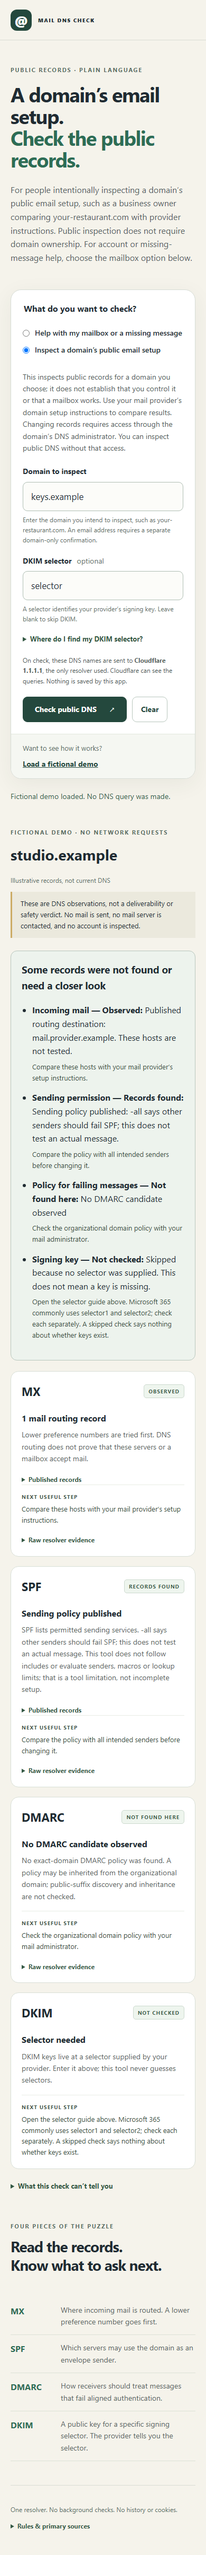
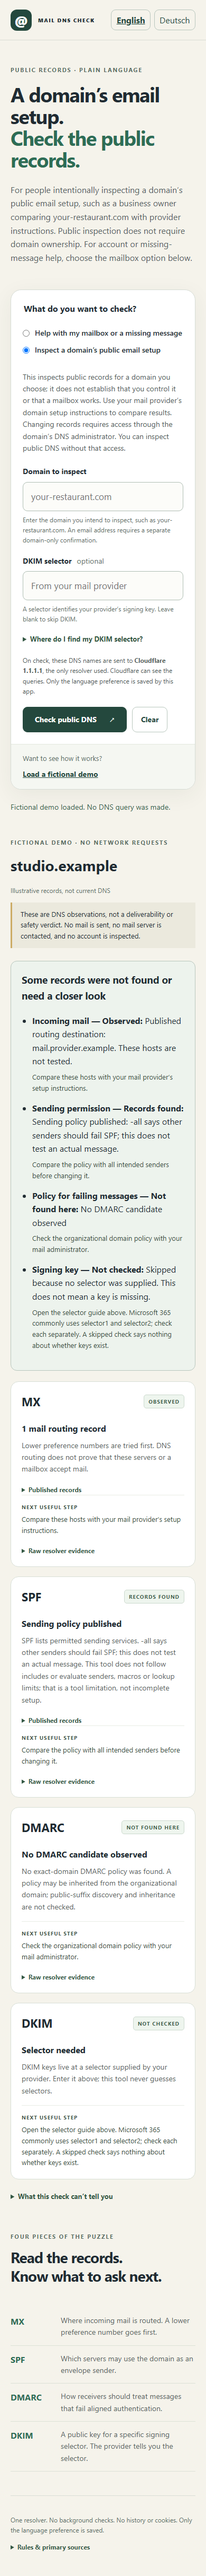
docs: improve public product documentation

Changed region(s): [[0.0615, 0.0, 0.9231, 0.9961], [0.1538, 0.9649, 0.2154, 0.9961]]

diff --git a/README.md b/README.md
@@ -1,79 +1,73 @@
 # Mail DNS Check
 
-Choose mailbox help or intentional public-domain DNS inspection before entering anything. Mailbox help offers account and message-support next steps without collecting an address or querying DNS, for every provider. Public inspection (for example your-restaurant.com) does not require ownership; changing records requires the DNS administrator. Use this browser tool to compare public DNS records with your provider’s instructions. It cannot diagnose a mailbox or individual message. After choosing public inspection, enter a domain and explicitly
-query Cloudflare 1.1.1.1, and read MX/SPF/DMARC plus an optional known DKIM selector.
-The built-in example uses fictional records and is labeled separately from live results. No mail, SMTP probes,
-account access, scans, guessed selectors or automatic background requests. Only
-the interface language preference is saved in browser storage; domains, selectors
-and DNS results are not.
+Understand a domain's public email configuration and compare it with your provider's setup instructions. Mail DNS Check shows MX, SPF and DMARC records, plus DKIM records when you supply a selector.
 
-`npm test` runs the dependency-free Node core tests. `npm run preview` binds only
-127.0.0.1:43220 for at most 20 minutes; stop with Ctrl+C. Static output is `dist/`; hosting is configured separately.
+**[Open Mail DNS Check](https://tools.arcdrake.com/mail-dns/)** · [Download source](https://github.com/ArcdrakeStudios/mail-dns-check/archive/refs/heads/main.zip) · [Arcdrake Tools](https://tools.arcdrake.com/) · [Report an issue](https://github.com/ArcdrakeStudios/mail-dns-check/issues)
 
-The sole network destination is https://cloudflare-dns.com/dns-query, with
-credentials omitted, redirects rejected and no referrer. Explicit checks issue
-three queries (MX, domain TXT, exact-domain DMARC TXT), or four with a supplied
-DKIM selector. Concurrent requests share a 12-second cancellation deadline;
-each streamed response is capped at 64 KiB and 100 answers. A new check, demo,
-clear, cancel or page exit invalidates prior responses. Input is bounded, IDNs
-are normalized to ASCII; URL/IP/local names are rejected. All domains require explicit public-DNS intent. Every email address requires domain-only confirmation; its local part is never sent to the resolver. Known provider names add context only: the finite provider list never establishes visitor intent or domain control. The resolver
-sees the requested names; this app retains no history. CSP allows connections
-only to that resolver. Public source links navigate only on an explicit click.
+## How to use it
 
-Interpretations are bounded record summaries, never authentication or
-deliverability verdicts. Null MX can intentionally reject incoming mail; absent
-MX can use A/AAAA fallback (not queried). SPF dependencies/macros/address matching
-and lookup budgets are not evaluated. DMARC organizational-domain discovery and
-inheritance are not evaluated. DKIM public keys/signatures are not validated.
-CNAMEs remain visible in raw evidence without additional target queries. TXT
-chunks are concatenated as one record; unrelated TXT records remain visible.
-Unavailable/truncated/error responses are distinct from absent records. TTL is
-resolver cache evidence, not a promise of global freshness.
+- **Need help with your mailbox or a missing message?** Choose mailbox help. It explains where to seek account or message support without collecting your address or querying DNS. Checking `gmail.com` or another provider's domain cannot diagnose your individual mailbox.
+- **Checking a domain's email setup?** Choose public DNS inspection, enter the domain and select **Check public DNS**. You can inspect public records without owning the domain; changing them requires its DNS administrator.
+- **Just exploring?** Choose public DNS inspection, then load the fictional demo to see a report without making any DNS requests.
 
-Primary rules: [Cloudflare DoH JSON API](https://developers.cloudflare.com/1.1.1.1/encryption/dns-over-https/make-api-requests/dns-json/),
-[SMTP RFC 5321 §5](https://www.rfc-editor.org/rfc/rfc5321.html#section-5),
-[null MX RFC 7505](https://www.rfc-editor.org/rfc/rfc7505.html),
-[SPF RFC 7208](https://www.rfc-editor.org/rfc/rfc7208.html),
-[DMARC RFC 7489](https://www.rfc-editor.org/rfc/rfc7489.html),
-[DKIM RFC 6376](https://www.rfc-editor.org/rfc/rfc6376.html).
+An email address requires a separate confirmation to check only its domain. The part before `@` is never sent to the DNS resolver. If your provider gives you a DKIM selector, enter it; leaving it empty skips that lookup.
 
-## Source and verification
+<details>
+<summary>View desktop screenshot</summary>
 
-![Synthetic desktop example](docs/screenshot-desktop.png)
+![Mail DNS Check with fictional example data](docs/screenshot-desktop.png)
 
-MIT licensed; see [LICENSE](LICENSE) and [third-party inventory](THIRD_PARTY_NOTICES.md).
-Built by [Arcdrake](https://arcdrake.com/). The source is available in this repository; production hosting is not yet live.
-See [verification](docs/VERIFICATION.md) and [deployment](docs/DEPLOYMENT.md).
+</details>
 
-Requires Node.js 24 or newer for the local preview and core tests. No package installation is needed for those commands.
-`npm test` runs deterministic core tests. `npm run package` requires Python 3.11+
-and creates a checked static ZIP plus SHA-256 manifest in `artifacts/release/`.
-There is no frontend compilation step; `dist/` is the application source.
+[Mobile screenshot](docs/screenshot-mobile.png). Screenshots show the standalone application with fictional data.
 
-For browser regression checks, follow the locked development setup below and run `npm run test:ci`. The script starts/stops its own preview and headless browser. Screenshots go to ignored `artifacts/readiness/`; only `UPDATE_SCREENSHOTS=1` replaces release images in `docs/`. Do not run it while
-another process owns the app's preview port. No package/browser installation is
-required for normal use. Chromium desktop and 390px emulation are recorded;
-physical devices, screen readers and other engines have not been tested.
+## Privacy and limitations
 
-For contributions, supply a reproducible issue with synthetic inputs only; never
-attach real credentials or private URLs/domains. Run the relevant core/browser
-checks with a proposed fix. [Report an issue](https://github.com/ArcdrakeStudios/mail-dns-check/issues).
+Live checks send the requested DNS names to Cloudflare's DNS-over-HTTPS resolver at `https://cloudflare-dns.com/dns-query`. These direct browser requests expose your public IP address and the requested DNS names to Cloudflare. The application does not send mail, contact mail servers, access accounts, guess DKIM selectors or run background checks.
 
-## Source, support and development
+English and German are available. Only the language preference is stored locally; domains, selectors and results are not saved by the application. The fictional demo and mailbox-help path make no DNS queries.
 
-[Source](https://github.com/ArcdrakeStudios/mail-dns-check) · [Issues](https://github.com/ArcdrakeStudios/mail-dns-check/issues) · [Contributing](CONTRIBUTING.md) · [Security](SECURITY.md)
+Results are observations of public DNS, not a mailbox diagnosis, authentication test, deliverability score or safety verdict. SPF dependencies and sender matching are not evaluated. DMARC checks the exact domain; organizational-domain policy discovery and inheritance are not evaluated. DKIM keys and message signatures are not validated. See [DNS interpretation and test coverage](docs/VERIFICATION.md) for the remaining boundaries.
 
-Part of Arcdrake's tools collection. The planned shared home is `tools.arcdrake.com`;
-production hosting is not live as part of this source release. Local use is available
-above. Development checks use Node.js 24, Python 3.11+ and locked Playwright tooling:
+The hosted site receives ordinary page and asset requests. See its [privacy information](https://tools.arcdrake.com/privacy/) for hosting details.
+
+## Run locally
+
+Download and extract the source ZIP, or clone this repository. Open a terminal
+in the resulting folder.
+
+Install Node.js 24 or newer, then run from this repository:
+
+```sh
+npm run preview
+```
+
+Open http://127.0.0.1:43220/. Stop the preview with Ctrl+C. The preview also stops automatically after 20 minutes. No package installation is needed to run the application. Serve it over HTTP(S), rather than opening `index.html` directly. The files in `dist/` are the application source; there is no compilation step.
+
+## Development
+
+Packaging additionally requires Python 3.11 or newer available as `python`, because the npm script calls that command. Check `python --version`; if your system only provides `python3`, configure your Python installation or PATH so `python` selects Python 3.11 or newer. Install the locked development tools and run the checks:
 
 ```sh
 npm ci
 npx playwright install chromium
 npm test
 npm run test:ci
+npm run test:localization
 npm run package:release
 ```
 
-The CI wrapper starts and stops its own preview server. Runtime operation needs no
-package installation. [Release procedure](docs/RELEASING.md).
+Browser checks manage their own local servers. Leave the preview port free before running them. The package command writes static files and a SHA-256 manifest to `artifacts/release/`; it does not publish or deploy.
+
+Automated browser coverage uses Chromium, including narrow layouts. Safari, Firefox, physical devices and screen readers have not been verified for this app. Report compatibility problems with your browser version and a fictional example.
+
+See [contributing](CONTRIBUTING.md), [language support](docs/LOCALIZATION.md) and [packaging and hosting](docs/RELEASING.md).
+
+## License and support
+
+An [Arcdrake](https://arcdrake.com/) product. Free to use, modify and redistribute under the [MIT license](LICENSE). See [third-party notices](THIRD_PARTY_NOTICES.md) for attribution.
+
+Use the [issue tracker](https://github.com/ArcdrakeStudios/mail-dns-check/issues) for bugs and suggestions. Do not include private account details or credentials. Report security vulnerabilities through the [private reporting channel](SECURITY.md).
+
+Feature requests are welcome in the issue tracker. To contribute an improvement,
+see [the contribution guide](CONTRIBUTING.md).

diff --git a/docs/VERIFICATION.md b/docs/VERIFICATION.md
@@ -1,16 +1,45 @@
-# Verification
+# DNS interpretation and test coverage
 
-Latest local pass: 15 October 2026. 16 deterministic core tests passed under Node.js 24.14.0; 23 Chromium 151.0.7922.34 browser fixture checks passed. Mailbox-help journeys for Gmail, Yahoo, Outlook and unknown providers make no DNS queries. Every domain requires public-DNS intent; every email requires explicit domain-only confirmation, and no local part is sent. Switching to mailbox help cancels pending DNS results. Provider detection never establishes ownership or intent. The overview renders ~all, p=none, supplied/omitted DKIM selectors, a CNAME-only answer, permissive SPF, tool parse limitations, missing records and partial unavailability, NXDOMAIN and unavailable results. Cancel, Clear and demo replacement discard late responses. A versionless signing key remains a candidate, not a validated key. Updated synthetic desktop and 390px screenshots were visually inspected; no horizontal overflow was measured. Physical devices, screen readers, non-Chromium browsers and the production origin have not been tested.
+## What the records can tell you
 
-Run `npm test`. For browser checks follow the [README](../README.md): install the locked
-Playwright dependency and Chromium using the documented commands. The browser script
-starts its own loopback server and closes it and its isolated browser afterward.
-Screenshots default to ignored artifacts; UPDATE_SCREENSHOTS=1 is a deliberate
-release-image refresh. The application needs no package installation.
+Mail DNS Check summarizes records returned by one resolver. It does not test an individual message or prove that a mailbox accepts mail.
 
-The static package builder rejects unexpected files/subdirectories, uses stored
-ZIP entries with fixed metadata, checks each archive member against source and
-writes archive/per-file SHA-256 hashes. It is not a publishing command.
+- **MX:** A null MX may intentionally reject incoming mail. If MX is absent, SMTP may fall back to A/AAAA records; this app does not query that fallback.
+- **SPF:** The published policy is shown, but includes, redirects, macros, sender-address matching and DNS lookup budgets are not evaluated.
+- **DMARC:** The app queries the exact domain's `_dmarc` record. It does not discover organizational domains or evaluate inherited policy.
+- **DKIM:** A lookup requires a supplied selector. Public keys and message signatures are not validated; no selector is guessed.
 
-Production-origin DNS-over-HTTPS behavior requires a separate check after deployment,
-including response status, JSON content type, CORS and rendering of live results.
+CNAMEs remain visible in raw evidence without additional target queries. TXT chunks are concatenated into a record; unrelated TXT records remain available in raw evidence. Error, truncated and unavailable responses are distinct from missing records. TTL values describe resolver-cache evidence rather than global freshness.
+
+## Request boundaries
+
+An explicit check issues three queries: MX, domain TXT and exact-domain DMARC TXT. A supplied DKIM selector adds a fourth. Requests share a 12-second cancellation deadline; responses are capped at 64 KiB and 100 answers. Credentials are omitted, redirects rejected and no referrer is sent.
+
+A new check, demo, Clear, Cancel or leaving the page invalidates prior responses. Internationalized domain names are normalized to ASCII. URLs, IP addresses and local names are rejected. Public inspection requires an explicit choice; an email address additionally requires confirmation to inspect only its domain. Provider-name hints do not establish ownership or intent.
+
+## Running the checks
+
+Install the development tools in the [README](../README.md), then run:
+
+```sh
+npm test
+npm run test:ci
+npm run test:localization
+```
+
+Core tests cover parsing and bounded record summaries. Chromium browser checks use controlled DNS fixtures to cover mailbox-help and public-inspection paths, domain-only confirmation, canceled requests, demo results, errors and narrow layouts. Localization checks cover English/German selection and preservation of DNS data.
+
+Fixture tests do not verify a live resolver or CORS on a deployed origin. Check those separately when hosting a copy. Automated checks use Chromium; Safari, Firefox, physical devices and screen readers have not been verified.
+
+Browser checks create their own loopback server and close it afterward. Screenshots default to ignored `artifacts/readiness/`. Setting `UPDATE_SCREENSHOTS=1` updates the documented screenshots in `docs/`; inspect those images before committing them.
+
+The static package builder checks its file inventory and archive contents, then writes archive and per-file SHA-256 hashes. It does not publish.
+
+## References
+
+- [Cloudflare DNS-over-HTTPS JSON API](https://developers.cloudflare.com/1.1.1.1/encryption/dns-over-https/make-api-requests/dns-json/)
+- [SMTP routing, RFC 5321 section 5](https://www.rfc-editor.org/rfc/rfc5321.html#section-5)
+- [Null MX, RFC 7505](https://www.rfc-editor.org/rfc/rfc7505.html)
+- [SPF, RFC 7208](https://www.rfc-editor.org/rfc/rfc7208.html)
+- [DMARC, RFC 7489](https://www.rfc-editor.org/rfc/rfc7489.html)
+- [DKIM, RFC 6376](https://www.rfc-editor.org/rfc/rfc6376.html)

diff --git a/docs/DEPLOYMENT.md b/docs/DEPLOYMENT.md
@@ -1,30 +1,23 @@
-# Static deployment
+# Static hosting
 
-For local package inspection, run `npm test`, the browser checks described in [README](../README.md),
-then `python tools/package-release.py` (Python 3.11+). The resulting
-`artifacts/release/static-release.zip` contains exactly four application files,
-LICENSE and THIRD_PARTY_NOTICES.md; manifest.json records archive/per-file hashes.
-Packaging needs no dependency installation. Browser checks require the locked
-Playwright dependency and browser installation documented in README. Runtime use
-requires no backend, database or account.
+The hosted application is available at [tools.arcdrake.com/mail-dns/](https://tools.arcdrake.com/mail-dns/). To host your own copy, build a package using [these instructions](RELEASING.md).
 
-For production, use only the retained **Prepare release artifact** workflow output
-for the approved main commit, following [RELEASING.md](RELEASING.md). Local packages
-are for inspection, not production deployment. Serve the unpacked approved static
-package over HTTPS from its own root or directory.
-A directory mount must serve its trailing-slash index and adjacent relative assets.
-Do not serve the repository root, tests, internal tooling or artifacts directory.
-Confirm unknown-path 404 behavior and preserve other routes on an existing host.
+## Files and paths
 
-Set X-Content-Type-Options: nosniff and Referrer-Policy: no-referrer. Keep the
-application's current CSP, restrict framing through host headers, and use
-revalidated HTML/consistent asset caching. No service worker is installed.
-Mail DNS Check requires connect-src https://cloudflare-dns.com. Cloudflare sees explicitly requested DNS names; verify CORS from the actual production origin. No mail is sent.
+Extract `artifacts/release/static-release.zip`. It contains five application files: `index.html`, `style.css`, `app.js`, `core.js` and `language.js`, plus `LICENSE` and `THIRD_PARTY_NOTICES.md`. A separate `manifest.json` records archive and per-file SHA-256 hashes.
 
-After deployment compare per-file hashes with the manifest, inspect security
-headers and desktop/mobile behavior, and verify the actual origin-specific flow.
-Hosting receives page/asset requests and may keep access logs; describe the chosen
-host's processing and operator/contact information accurately. Retain the previous
-static package for rollback. The app has no stored user data to migrate.
+Serve the extracted static files over HTTPS from a root or directory, preserving relative asset paths. A directory mount must serve its trailing-slash index. Do not serve the repository root, tests or development tools. No application backend, database or account system is required.
 
-The planned shared home is tools.arcdrake.com. Source publication and production hosting are separate; see [RELEASING.md](RELEASING.md).
+## Host configuration
+
+Keep the application's Content Security Policy. Set `X-Content-Type-Options: nosniff` and `Referrer-Policy: no-referrer`, and configure framing restrictions appropriate to your host. Revalidate HTML and avoid serving stale assets from another version.
+
+The app needs `connect-src https://cloudflare-dns.com` for explicit DNS lookups. Check DNS-over-HTTPS responses and CORS from your chosen origin. These direct browser requests expose the visitor's public IP address and requested DNS names to Cloudflare; no mail is sent.
+
+No service worker is installed. Language preference storage belongs to the current origin.
+
+## Check your deployment
+
+Verify file hashes against the manifest, unknown-path 404 responses, asset loading, security headers, narrow layouts and English/German controls. Also check the demo, mailbox-help path and an explicit live DNS lookup.
+
+Hosting receives ordinary page and asset requests and may keep access logs. Describe the host's processing and operator/contact information accurately. Keep the previous package and manifest if you need to restore an earlier version.

diff --git a/docs/LOCALIZATION.md b/docs/LOCALIZATION.md
@@ -1,11 +1,19 @@
 # English and German interface
 
-The bundled `dist/language.js` contains local translations for static text, dynamic findings, help, errors and accessibility labels. It makes no network requests and adds no runtime dependencies. Rehearsal also localizes exported HTML run sheets. Raw URLs, DNS evidence, protocol values and user-authored event content remain data, protected by explicit raw display boundaries.
+The bundled `dist/language.js` supplies translations for interface text, help, errors and accessibility labels without network requests or runtime dependencies. DNS names, record values and raw resolver evidence remain data and are not translated.
 
-Language priority is valid `?lang=de|en`, then valid `arcdrake-tools-language` preference, then German browser language, otherwise English. Unavailable browser storage does not prevent an explicit URL choice. Only the preference is persisted by the language module.
+Language selection follows this order:
 
-The visible English/Deutsch buttons update the URL with `history.replaceState` without reloading. Each app dispatches and listens for `arcdrake-language-change` on `window`, with `detail.language` equal to `en` or `de`. This lets the collection shell change language while preserving entered values, selections, simulations and existing results.
+1. A valid `?lang=de` or `?lang=en` URL parameter.
+2. The saved `arcdrake-tools-language` preference.
+3. German when the browser's language is German; English otherwise.
 
-The translator retains English source text per node and translates exact strings or bounded message templates. It never replaces arbitrary words inside user text. When adding UI copy, add both its English source and German translation, keep inserted user values in raw boundaries, and extend the localization journey as needed.
+An explicit URL choice still works when browser storage is unavailable. Only the language preference is persisted by this module.
 
-Run `npm test`, `npm run test:ci`, and `npm run test:localization`. Localization browser tests cover dynamic German results/errors, EN/DE state retention, raw-data retention, explicit URL and stored preference priority, browser-language fallback, denied storage and narrow screens. Every owned test browser is closed in `finally`.
+English/Deutsch controls change the language without reloading or clearing entered data. The app dispatches and listens for `arcdrake-language-change` on `window`, with `detail.language` set to `en` or `de`. A script running in the same page, such as site navigation, can use this event to coordinate language changes. The event does not cross iframe boundaries.
+
+## Adding translations
+
+The translator retains English source text per node and translates exact strings or bounded message templates. It does not replace arbitrary words inside user text. Add both the English source and German translation for new interface copy, keep user-supplied values outside translated text, and extend the localization tests.
+
+Run `npm run test:localization` after installing the development tools described in the [README](../README.md). The checks cover language selection, translated results and errors, preservation of entered data, unavailable storage and narrow layouts.

diff --git a/CONTRIBUTING.md b/CONTRIBUTING.md
@@ -1,35 +1,33 @@
 # Contributing
 
-Please open an issue before a substantial change. Small, focused fixes are welcome.
-Fork the repository, create a branch and submit a pull request against `main`.
-Use synthetic inputs in reports, screenshots and tests; do not post private data.
+Small, focused fixes are welcome. Open an issue before a substantial change so we can discuss the intended behavior. Fork the repository, create a branch and submit a pull request against `main`.
 
-Use Node.js 24 and Python 3.11 or newer. Install development tools with `npm ci`, then run:
+## Development checks
+
+Follow the prerequisites in the [README](README.md), then run:
 
 ```sh
+npm ci
 npx playwright install chromium
 npm test
 npm run test:ci
+npm run test:localization
 npm run package:release
 ```
 
-On Linux, `npx playwright install --with-deps chromium` installs required browser
-libraries. CI uses disposable GitHub-hosted runners. Maintainer approval is needed
-before an outside contributor's workflow runs; approval is not a code review.
+On Linux, `npx playwright install --with-deps chromium` also installs required browser libraries. Browser tests start and stop their own preview servers; leave the app's preview port free.
 
-Keep the app dependency-light and preserve its documented privacy and scope.
-Include a regression check for behavioral fixes and explain verification limits.
-Review must cover code, public copy, dependency rights and screenshots. Contributions
-are provided under the repository's MIT license. Be respectful and constructive.
+## Preparing a pull request
 
-## Maintainer workflow
+Explain the user-visible problem, the change and how you checked it. Add a regression test for behavioral fixes when practical, and keep documentation and both interface languages consistent with the application.
 
-Main requires a pull request, passing `verify` CI, resolved conversations and linear
-history. Squash merge approved changes. Force pushes and branch deletion are blocked.
-CODEOWNERS assigns review to @SirDragonheart. A separate review rule requires one
-approval, with a PR-only exception for the owner account: founder-authored PRs must
-record independent Claude review and resolved findings before that exception is used.
-The exception does not bypass CI or permit direct pushes. GitHub enforces the checks;
-the independent-review evidence requirement is a maintainer procedure.
+Preserve the documented privacy boundaries and keep runtime dependencies minimal. Use fictional inputs in issues, tests and screenshots. Never post private data or credentials.
 
-See [release procedure](docs/RELEASING.md) and [security reporting](SECURITY.md).
+Pull requests must pass the required CI check before merging. Contributor pull requests are reviewed by a maintainer. A maintainer may need to approve a contributor's workflow run before checks begin.
+
+Contributions are provided under the repository's MIT license. Be respectful and constructive.
+
+See [packaging and hosting](docs/RELEASING.md), [language support](docs/LOCALIZATION.md) and [security reporting](SECURITY.md).
+
+Accepted changes can be included in future updates to the hosted app. Deployment
+is managed separately from pull request merging.

diff --git a/docs/RELEASING.md b/docs/RELEASING.md
@@ -1,22 +1,23 @@
-# Release procedure
+# Packaging and hosting
 
-The canonical source is https://github.com/ArcdrakeStudios/mail-dns-check.
-The planned shared product home is `tools.arcdrake.com`; its production launch is
-separate from source publication. This repository does not automatically deploy.
+[Mail DNS Check](https://tools.arcdrake.com/mail-dns/) is part of [Arcdrake Tools](https://tools.arcdrake.com/). This repository contains its standalone source. Its workflows check changes and prepare downloadable artifacts; they do not deploy the hosted service.
 
-1. Merge through the protected pull-request workflow with `verify` passing and
-   review findings resolved. Record independent review for an owner-authored PR.
-2. Dispatch **Prepare release artifact** on `main`. The `release` environment
-   requires owner approval and restricts runs to main. It repeats tests and packages
-   the checked-out SHA. The artifact is named with that SHA and retained for 30 days.
-3. Inspect the package manifest/hashes. Download and retain the artifact and manifest
-   in the deployment release archive before GitHub retention expires.
-4. Website deployment belongs to the separate infrastructure workflow. Pin this
-   public commit and artifact hash there; verify routing, security headers and user
-   journeys on the production origin. No credentials or deployment hooks live here.
-5. Keep the previous verified artifact and manifest. Roll back through the same
-   infrastructure workflow to those exact bytes, then check the live product.
+## Build a static package
 
-Do not deploy from a contributor branch, arbitrary tag or local working directory.
-Static host logs and origin-dependent browser behavior require separate deployment
-verification. The initial source publication is not evidence of a live public site.
+Follow the development checks in the [README](../README.md), then run:
+
+```sh
+npm run package:release
+```
+
+Python 3.11 or newer must be available as `python`, the command used by the npm script. Check `python --version`; if only `python3` is available, configure your Python installation or PATH before using the npm command. The command creates `artifacts/release/static-release.zip` and a separate `manifest.json` with archive and per-file SHA-256 hashes.
+
+The application files are `index.html`, `style.css`, `app.js`, `core.js` and `language.js`. The package also includes `LICENSE` and `THIRD_PARTY_NOTICES.md`; retain these when redistributing it. Packaging does not download dependencies, upload files or configure hosting.
+
+The **Prepare release artifact** GitHub Actions workflow runs on `main` when dispatched by a maintainer. It repeats the checks and uploads an artifact named with the source commit. GitHub keeps these workflow artifacts for 30 days; they are not permanent release downloads.
+
+## Host your own copy
+
+See [static hosting](DEPLOYMENT.md) for package layout, headers and browser requirements.
+
+Retain the previous package and manifest if you need to restore an earlier version. Verify the files against the manifest before serving them.

diff --git a/.github/pull_request_template.md b/.github/pull_request_template.md
@@ -1,11 +1,14 @@
 ## Problem and change
 
+Describe the user problem and how this change addresses it.
+
 ## Verification
 
-## Privacy, security and dependency impact
+Describe the checks you ran and any remaining limitations.
 
-- [ ] Tests pass and limitations are stated.
+## Checklist
+
+- [ ] Relevant checks pass.
 - [ ] Examples and screenshots contain no private information.
 - [ ] Documentation matches the behavior.
-
-## Independent review evidence (required for owner review exception)
+- [ ] Any privacy, security or dependency changes are explained.

diff --git a/.github/ISSUE_TEMPLATE/bug_report.md b/.github/ISSUE_TEMPLATE/bug_report.md
@@ -12,8 +12,10 @@ assignees: ""
 
 ## Steps to reproduce
 
+## Hosted app or self-hosted copy?
+
 ## Browser and version
 
 ## Screenshots (remove private information)
 
-For security vulnerabilities, use SECURITY.md instead.
+For security vulnerabilities, use [private security reporting](https://github.com/ArcdrakeStudios/mail-dns-check/security/advisories/new) instead.
